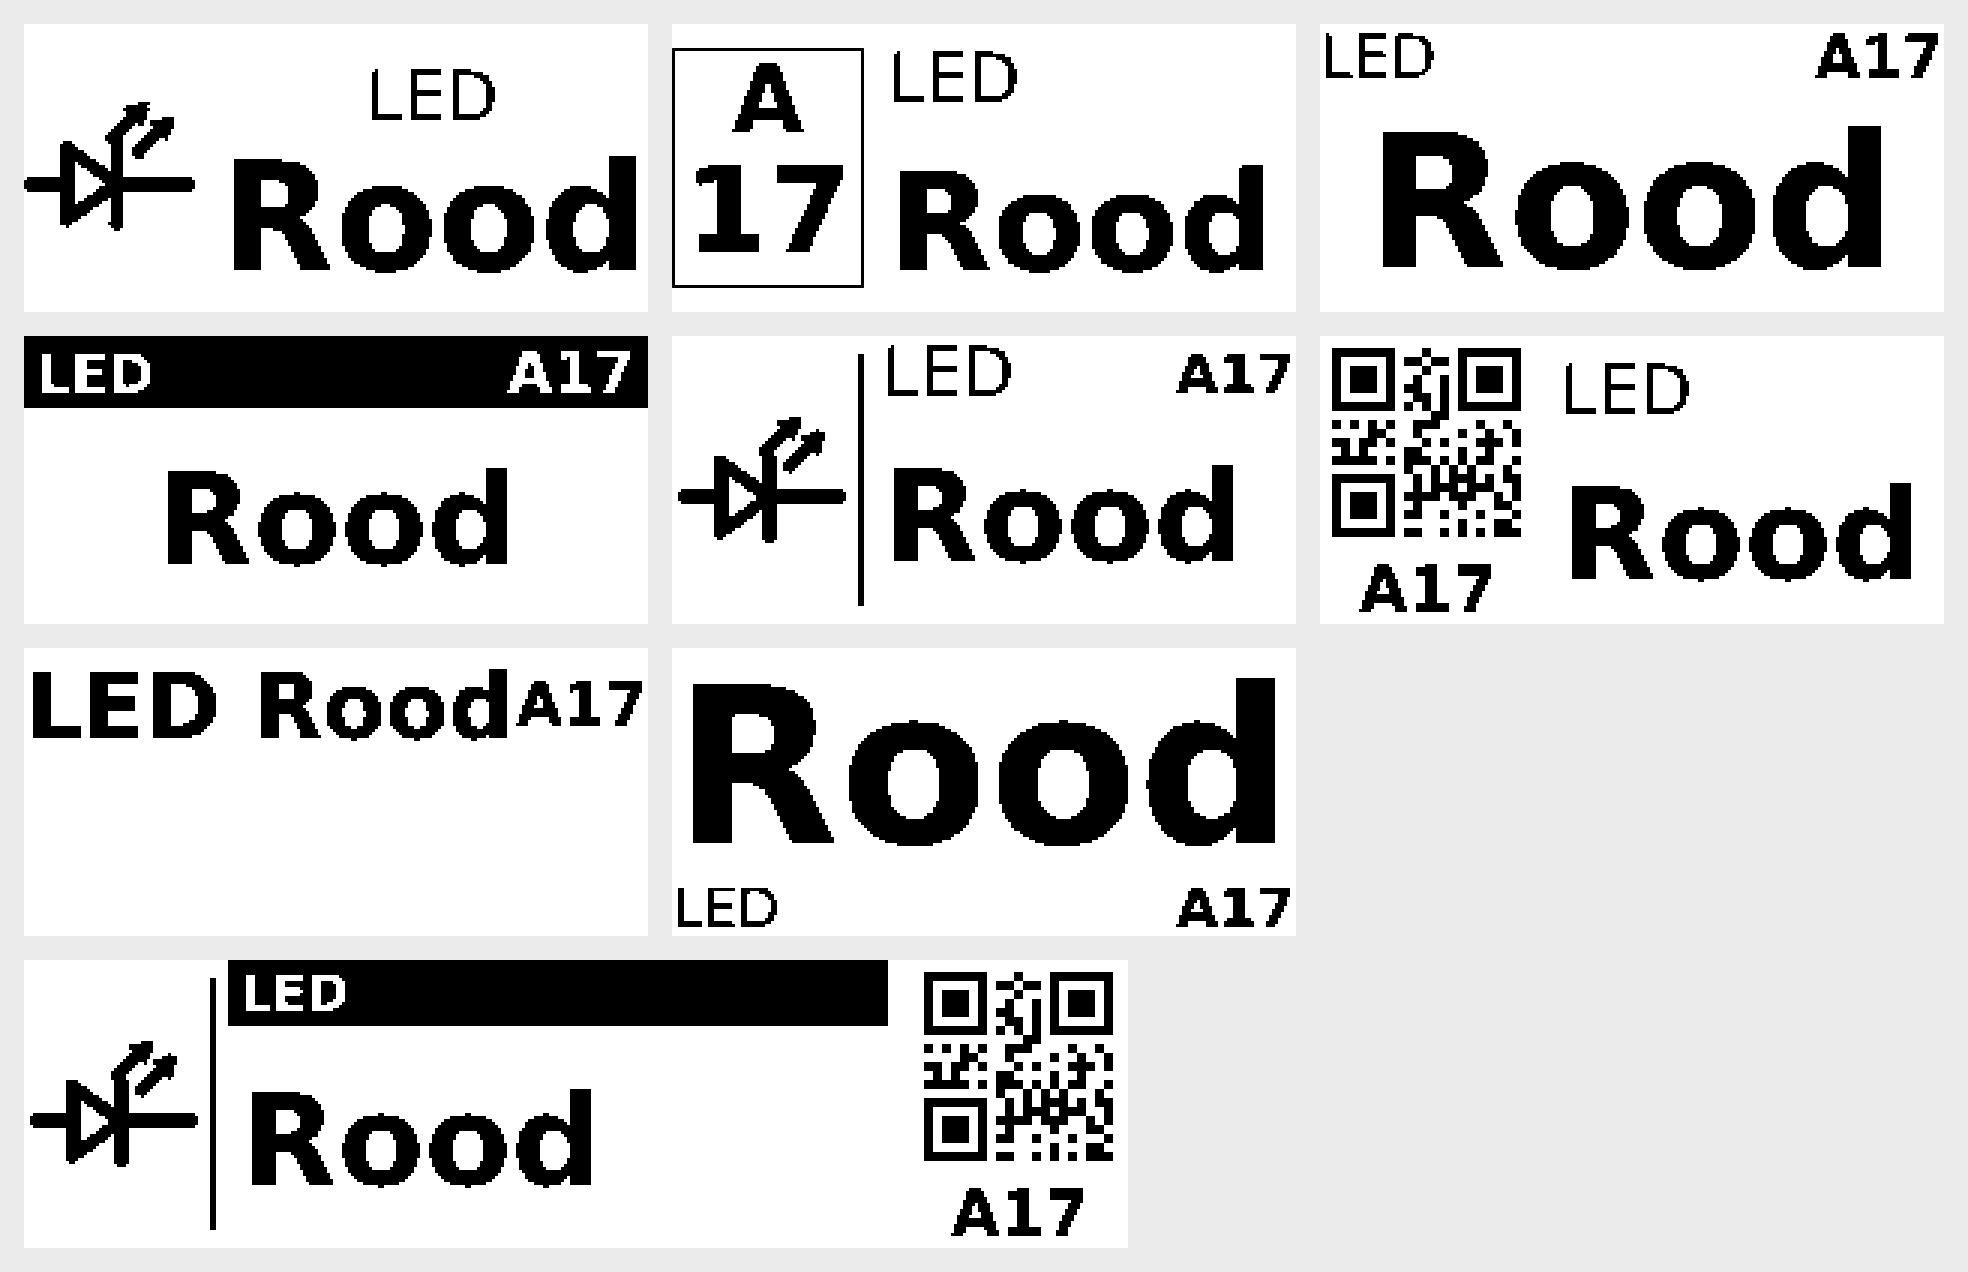
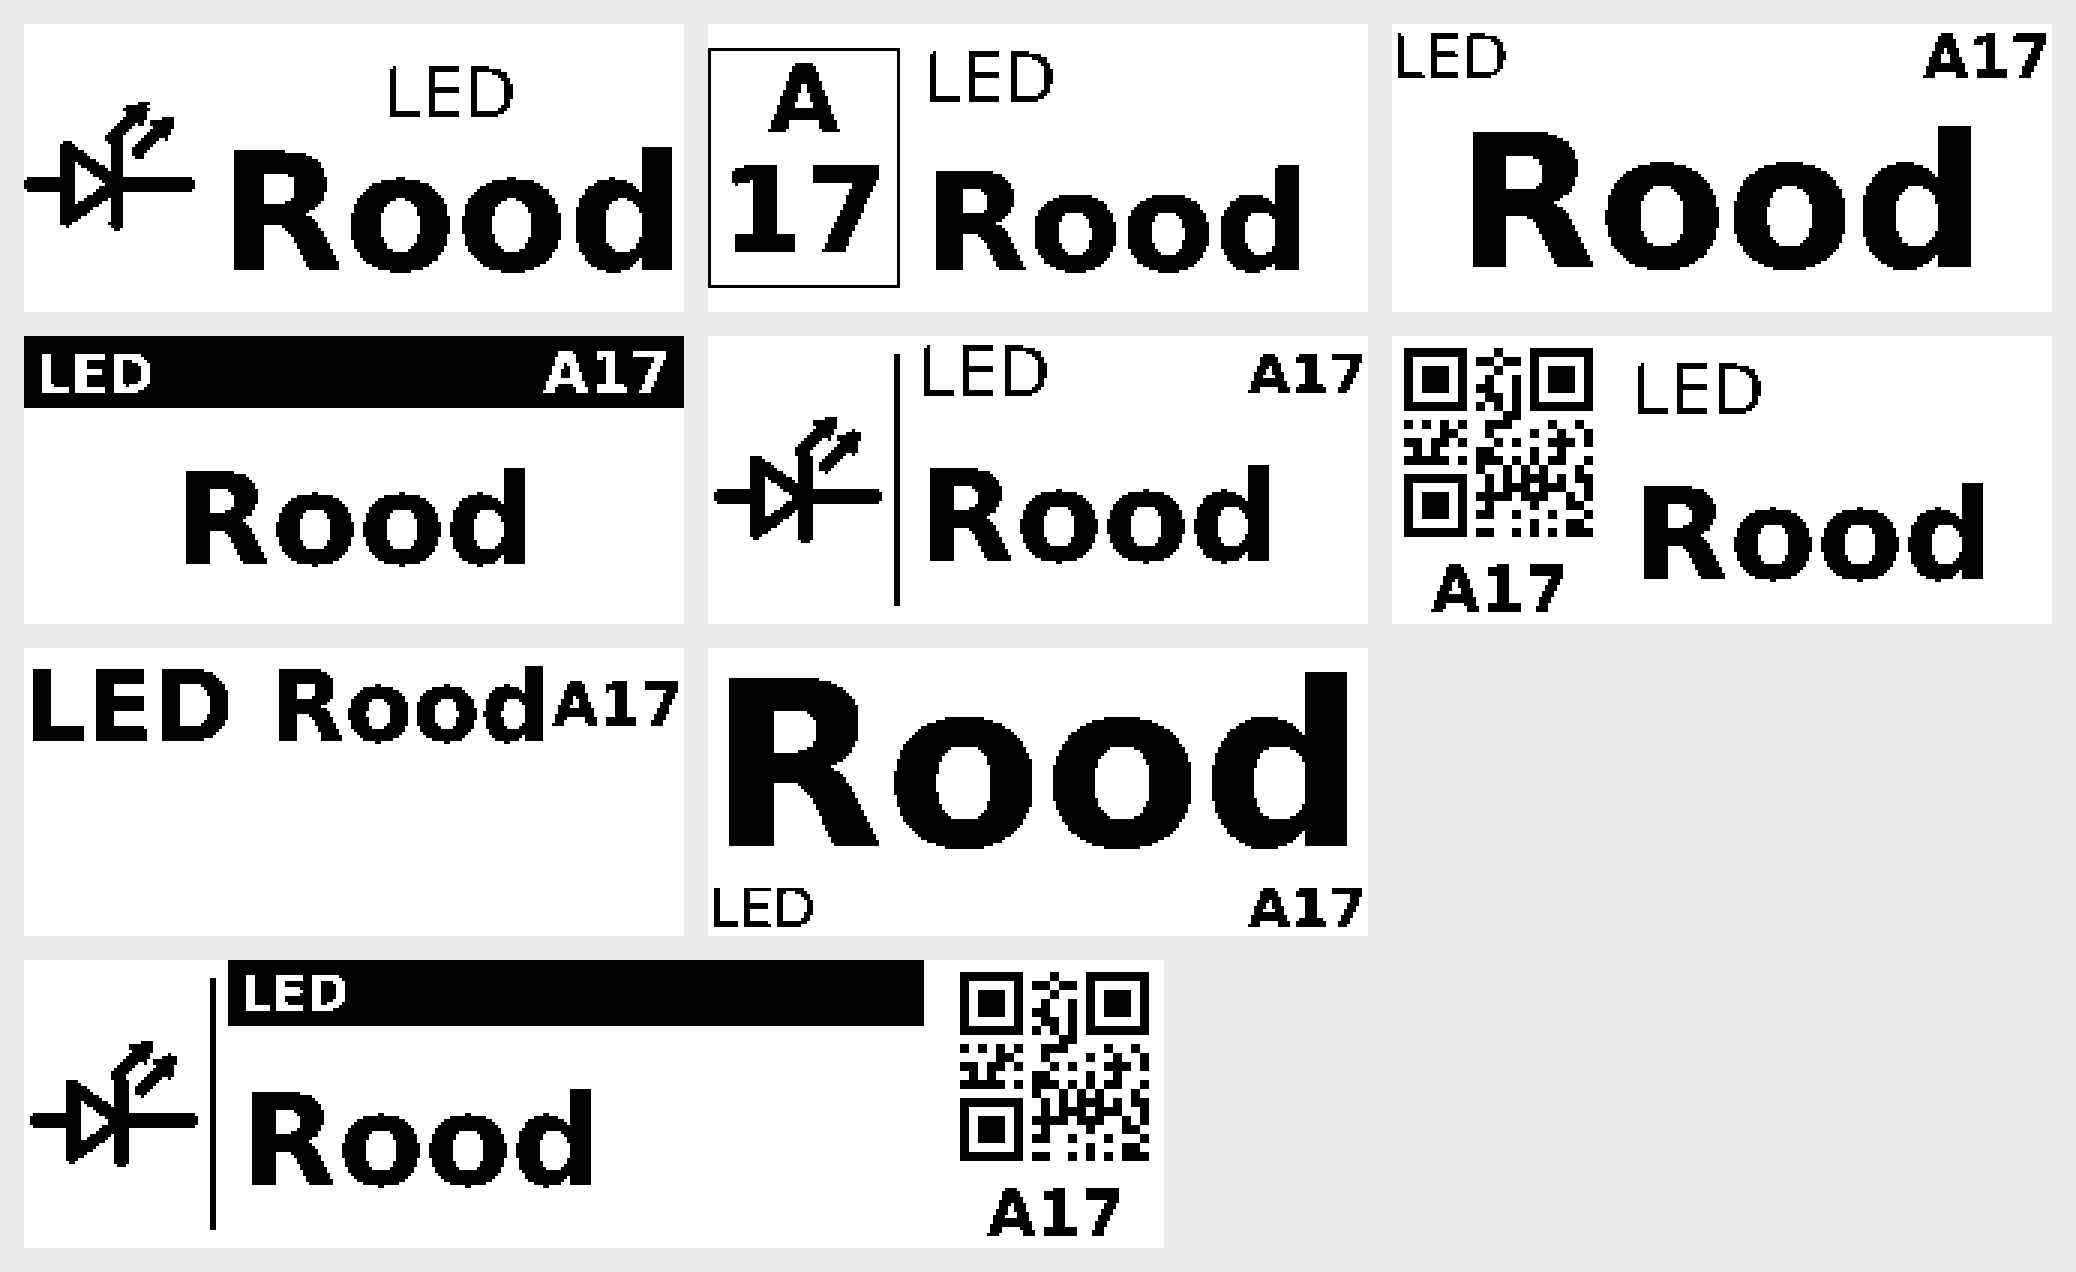
Sjablonen: aangezet pictogram weer uit bij terugkeer, kiezer altijd even hoog
Wat een sjabloon zelf aanzette (pictogram, QR-inhoud) gaat weer uit als het
label naar een sjabloon gaat dat het niet gebruikt; wat de gebruiker zelf
koos of daarna veranderde blijft staan. De sjabloonkiezer heeft een vaste
hoogte, zodat elk voorbeeldplaatje heel en even groot blijft.

diff --git a/tests/test_templates.py b/tests/test_templates.py
@@ -205,3 +205,55 @@ def test_chooser_applies_a_template(qtbot, window) -> None:  # noqa: ANN001, F81
     window.undo()
     assert window.current.template == LabelTemplate.NONE
     assert props._style_form.isRowVisible(props.valign)
+
+
+def test_leaving_a_template_undoes_what_it_switched_on() -> None:
+    lbl = led()
+    lbl.picture.kind = PictureKind.NONE
+    lbl.code.text = ""
+    apply_template(lbl, LabelTemplate.ICON)
+    assert lbl.picture.kind == PictureKind.SYMBOL
+    apply_template(lbl, LabelTemplate.ZONES)  # still uses it
+    assert lbl.picture.kind == PictureKind.SYMBOL and lbl.code.text == "{Lade}"
+    back = Label.from_dict(lbl.to_dict())  # remembered across saving
+    apply_template(back, LabelTemplate.NONE)
+    assert back.picture.kind == PictureKind.NONE and back.code.text == ""
+    assert back.template_added == []
+    # a pictogram the label already had stays
+    mine = led()
+    apply_template(mine, LabelTemplate.ICON)
+    apply_template(mine, LabelTemplate.NONE)
+    assert mine.picture.kind == PictureKind.SYMBOL and mine.picture.symbol == "led"
+
+
+def test_a_pictogram_chosen_by_hand_stays(qtbot, window) -> None:  # noqa: ANN001, F811
+    props = window.properties
+    lbl = window.current
+    lbl.picture.kind = PictureKind.NONE
+    props.set_label(lbl)
+    box = props.template
+    for tpl in (LabelTemplate.ICON, LabelTemplate.NONE):
+        box.setCurrentIndex(box.findData(tpl.value))
+        box.activated.emit(box.currentIndex())
+    assert window.current.picture.kind == PictureKind.NONE  # switched on and off again
+    box.setCurrentIndex(box.findData(LabelTemplate.ICON.value))
+    box.activated.emit(box.currentIndex())
+    other = props.pic_symbol.findData("bolt")
+    props.pic_symbol.setCurrentIndex(other)  # the user picks a symbol: it is theirs now
+    box.setCurrentIndex(box.findData(LabelTemplate.NONE.value))
+    box.activated.emit(box.currentIndex())
+    assert window.current.picture.kind == PictureKind.SYMBOL
+    assert window.current.picture.symbol == "bolt"
+
+
+def test_chooser_keeps_one_height(qtbot, window) -> None:  # noqa: ANN001, F811
+    """The picture of every template shows whole: the chooser never changes height."""
+    props = window.properties
+    box = props.template
+    heights = set()
+    for tpl in LabelTemplate:
+        box.setCurrentIndex(box.findData(tpl.value))
+        box.activated.emit(box.currentIndex())
+        qtbot.wait(10)
+        heights.add(box.height())
+    assert len(heights) == 1 and heights.pop() >= box.iconSize().height() + 8

diff --git a/src/etiknivo/rendering/templates.py b/src/etiknivo/rendering/templates.py
@@ -152,20 +152,38 @@ class _Builder:
         return height
 
 
+#: templates built around a pictogram, and around the QR code's content
+PICTURE_TEMPLATES = (LabelTemplate.ICON, LabelTemplate.ZONES)
+CODE_TEMPLATES = (LabelTemplate.QR, LabelTemplate.ZONES)
+
+
 def apply_template(label: Label, template: LabelTemplate) -> None:
     """Give *label* *template*, with what that template is built around: a
-    pictogram (a fitting symbol) or the QR code's content (the tray ID)."""
+    pictogram (a fitting symbol) or the QR code's content (the tray ID).
+
+    What a template switched on by itself is switched off again when the
+    label goes to a template that does not need it (for example back to the
+    lines under each other); what the user set up stays."""
     from etiknivo.rendering.symbols import suggest_symbol
 
     label.template = template
     pic = label.picture
-    if template in (LabelTemplate.ICON, LabelTemplate.ZONES) and pic.kind == PictureKind.NONE:
+    added = label.template_added
+    if "picture" in added and template not in PICTURE_TEMPLATES:
+        pic.kind = PictureKind.NONE
+        added.remove("picture")
+    if "code" in added and template not in CODE_TEMPLATES:
+        label.code.text = ""
+        added.remove("code")
+    if template in PICTURE_TEMPLATES and pic.kind == PictureKind.NONE:
         pic.kind = PictureKind.SYMBOL
         # the most specific text first: "LED" says more than "Halfgeleiders"
         pic.symbol = suggest_symbol(label.top.text, label.name, label.main.text,
                                     label.category) or pic.symbol
-    if template in (LabelTemplate.QR, LabelTemplate.ZONES) and not label.code.text.strip():
+        added.append("picture")
+    if template in CODE_TEMPLATES and not label.code.text.strip():
         label.code.text = tray_field()
+        added.append("code")
 
 
 def tray_field() -> str:

diff --git a/src/etiknivo/gui/properties_panel.py b/src/etiknivo/gui/properties_panel.py
@@ -302,7 +302,8 @@ class PropertiesPanel(QScrollArea):
         f.addRow(tr("Categorie"), self.category)
         self.template = combo()
         self.template.setIconSize(QSize(72, 34))
-        self.template.setMinimumHeight(40)  # room for the picture of the template
+        # always the same height (see theme.py), so every picture shows whole
+        self.template.setObjectName("templateChooser")
         for tpl, (name, desc) in TEMPLATE_INFO.items():
             self.template.addItem(template_icon(tpl), tr(name), tpl.value)
             self.template.setItemData(self.template.count() - 1, tr(desc),
@@ -761,6 +762,7 @@ class PropertiesPanel(QScrollArea):
         s.separators = self.separators.isChecked()
         s.invert = self.invert.isChecked()
         self._update_style_reset()
+        before = (lbl.picture.kind, lbl.picture.symbol, lbl.code.text)
         lbl.code.kind = CODE_CHOICES[max(0, self.code_kind.currentIndex())][0]
         if lbl.code.kind == CodeKind.QR:  # a barcode keeps the QR code's place for later
             lbl.code.side, lbl.code.valign = chosen_position(self.code_pos)
@@ -771,6 +773,12 @@ class PropertiesPanel(QScrollArea):
         lbl.picture.side, lbl.picture.valign = chosen_position(self.pic_pos)
         lbl.picture.size = chosen_size(self.pic_sizes)
         lbl.picture.symbol = self.pic_symbol.currentData() or lbl.picture.symbol
+        # what the user chose themselves stays when the template changes again
+        if (lbl.picture.kind, lbl.picture.symbol) != before[:2] and \
+                "picture" in lbl.template_added:
+            lbl.template_added.remove("picture")
+        if lbl.code.text != before[2] and "code" in lbl.template_added:
+            lbl.template_added.remove("code")
         self._update_picture_widgets()
         lbl.specs = self.specs.specs()
         lbl.notes = self.notes.toPlainText()

diff --git a/src/etiknivo/model.py b/src/etiknivo/model.py
@@ -500,6 +500,9 @@ class Label:
     picture: LabelPicture = field(default_factory=LabelPicture)
     #: ready-made arrangement of the lines, used unless ``layout`` is FREE
     template: LabelTemplate = LabelTemplate.NONE
+    #: what a template switched on by itself ("picture", "code"), so it can be
+    #: switched off again when the label leaves that template
+    template_added: list[str] = field(default_factory=list)
     #: loose elements, used when ``layout`` is FREE
     elements: list[LabelElement] = field(default_factory=list)
     #: :meth:`lines_key` of the lines the elements were made from
@@ -690,6 +693,8 @@ class Label:
             layout=as_enum(LayoutPreset, data.get("layout"), LayoutPreset.CUSTOM),
             lines=lines,
             template=as_enum(LabelTemplate, data.get("template"), LabelTemplate.NONE),
+            template_added=[x for x in (data.get("template_added") if isinstance(
+                data.get("template_added"), list) else []) if x in ("picture", "code")],
             style=LabelStyle.from_dict(data.get("style")),
             format=LabelFormat.from_dict(data.get("format")),
             code=LabelCode.from_dict(data.get("code")),

diff --git a/src/etiknivo/gui/theme.py b/src/etiknivo/gui/theme.py
@@ -360,6 +360,8 @@ QLineEdit:focus, QComboBox:focus, QAbstractSpinBox:focus, QPlainTextEdit:focus {
 QLineEdit:disabled, QComboBox:disabled, QAbstractSpinBox:disabled, QPlainTextEdit:disabled {{
     background: {t.window}; color: {t.muted};
 }}
+/* the template chooser shows a picture of each template: one fixed height */
+QComboBox#templateChooser {{ min-height: 36px; max-height: 36px; height: 36px; }}
 QComboBox::drop-down {{ border: none; width: 22px; }}
 QComboBox::down-arrow {{ image: url("{down}"); width: 12px; height: 12px; }}
 QComboBox QAbstractItemView {{

diff --git a/CHANGELOG.md b/CHANGELOG.md
@@ -5,7 +5,7 @@ All notable changes to Etiknivo are listed here. Version numbers follow [Semanti
 ## [Unreleased]
 
 ### Designing labels
-- **Templates**: under *Sjabloon* pick a ready-made arrangement after professional bin, warehouse and 5S labels: Location first, Value large, Header bar, Pictogram column, QR box, Specification grid, Readable from a distance and Three zones (for long labels). The text keeps coming from the lines, the tray ID, the QR code and the pictogram; labels with the same template in a category share their font sizes. Choose *Vrij* afterwards for small changes; the elements are exactly the template's. *Labels bewerken* has a Template column to give many labels a template at once.
+- **Templates**: under *Sjabloon* pick a ready-made arrangement after professional bin, warehouse and 5S labels: Location first, Value large, Header bar, Pictogram column, QR box, Specification grid, Readable from a distance and Three zones (for long labels). The text keeps coming from the lines, the tray ID, the QR code and the pictogram; labels with the same template in a category share their font sizes. Choose *Vrij* afterwards for small changes; the elements are exactly the template's. *Labels bewerken* has a Template column to give many labels a template at once. A pictogram or QR content a template switched on by itself goes off again when the label goes back to a template that does not use it; what you set yourself stays.
 - New free-layout element **White on black**: it turns over everything under it, for example to make a header bar.
 - **Restore defaults** in the Style section puts the label's style (line spacing, margins, vertical alignment, rotation, shrink to fit and the other switches) back to the defaults in one step; undo brings it back.
 - The default vertical margin is now 0 mm instead of 0.5 mm, so new labels use the full height. Saved labels keep the margin they were saved with.

diff --git a/docs/nl/handleiding.md b/docs/nl/handleiding.md
@@ -181,7 +181,7 @@ Bij **Sjabloon** kies je met één klik een indeling zoals professionele bak-, m
 Goed om te weten:
 
 - **Specificatie-raster**: scheid de vakjes in de onderregel met `|`, bijvoorbeeld `Ø 3 mm | THT | 20 mA | 2,0 V`. Zonder `|` staat de hele onderregel in één vak.
-- **Pictogram-kolom** en **Drie zones** kiezen zelf een passend symbool als het label nog geen pictogram had. Bij **QR-vak** en **Drie zones** staat de inhoud van de code standaard op `{Lade}`.
+- **Pictogram-kolom** en **Drie zones** kiezen zelf een passend symbool als het label nog geen pictogram had. Bij **QR-vak** en **Drie zones** staat de inhoud van de code standaard op `{Lade}`. Kies je daarna een sjabloon dat ze niet gebruikt (bijvoorbeeld weer *Regels onder elkaar*), dan gaat wat het sjabloon zelf aanzette weer uit. Een pictogram dat je zelf had gekozen of daarna zelf veranderde, blijft staan.
 - Met *Zelfde lettergrootte binnen de categorie* aan krijgen labels met hetzelfde sjabloon in een categorie per onderdeel dezelfde lettergrootte, zodat de kast er rustig uitziet.
 - Marges, regelafstand, rotatie en de lijn tussen regels gelden niet in een sjabloon; *Wit op zwart* en de rand wel. De lettergrootte van een regel volgt het sjabloon.
 - **Kleine aanpassingen**: kies daarna **Vrij**. Je krijgt dan precies de elementen van het sjabloon, die je kunt verschuiven of vergroten.

diff --git a/docs/en/user-guide.md b/docs/en/user-guide.md
@@ -183,7 +183,7 @@ Under **Template** you pick, with one click, an arrangement like those of profes
 Good to know:
 
 - **Specification grid**: separate the cells in the bottom line with `|`, for example `Ø 3 mm | THT | 20 mA | 2.0 V`. Without `|` the whole bottom line is one cell.
-- **Pictogram column** and **Three zones** pick a fitting symbol themselves when the label had no pictogram yet. With **QR box** and **Three zones** the code's content starts as `{Tray}`.
+- **Pictogram column** and **Three zones** pick a fitting symbol themselves when the label had no pictogram yet. With **QR box** and **Three zones** the code's content starts as `{Tray}`. If you then pick a template that does not use them (for example *Lines under each other* again), what the template switched on by itself goes off again. A pictogram you had chosen yourself, or changed afterwards, stays.
 - With *Same font size within the category* on, labels with the same template in a category get the same font size per part, so the cabinet looks calm.
 - Margins, line spacing, rotation and the line between lines do not apply to a template; *White on black* and the border do. A line's font size follows the template.
 - **Small changes**: choose **Free** afterwards. You then get exactly the template's elements, to move or resize.
